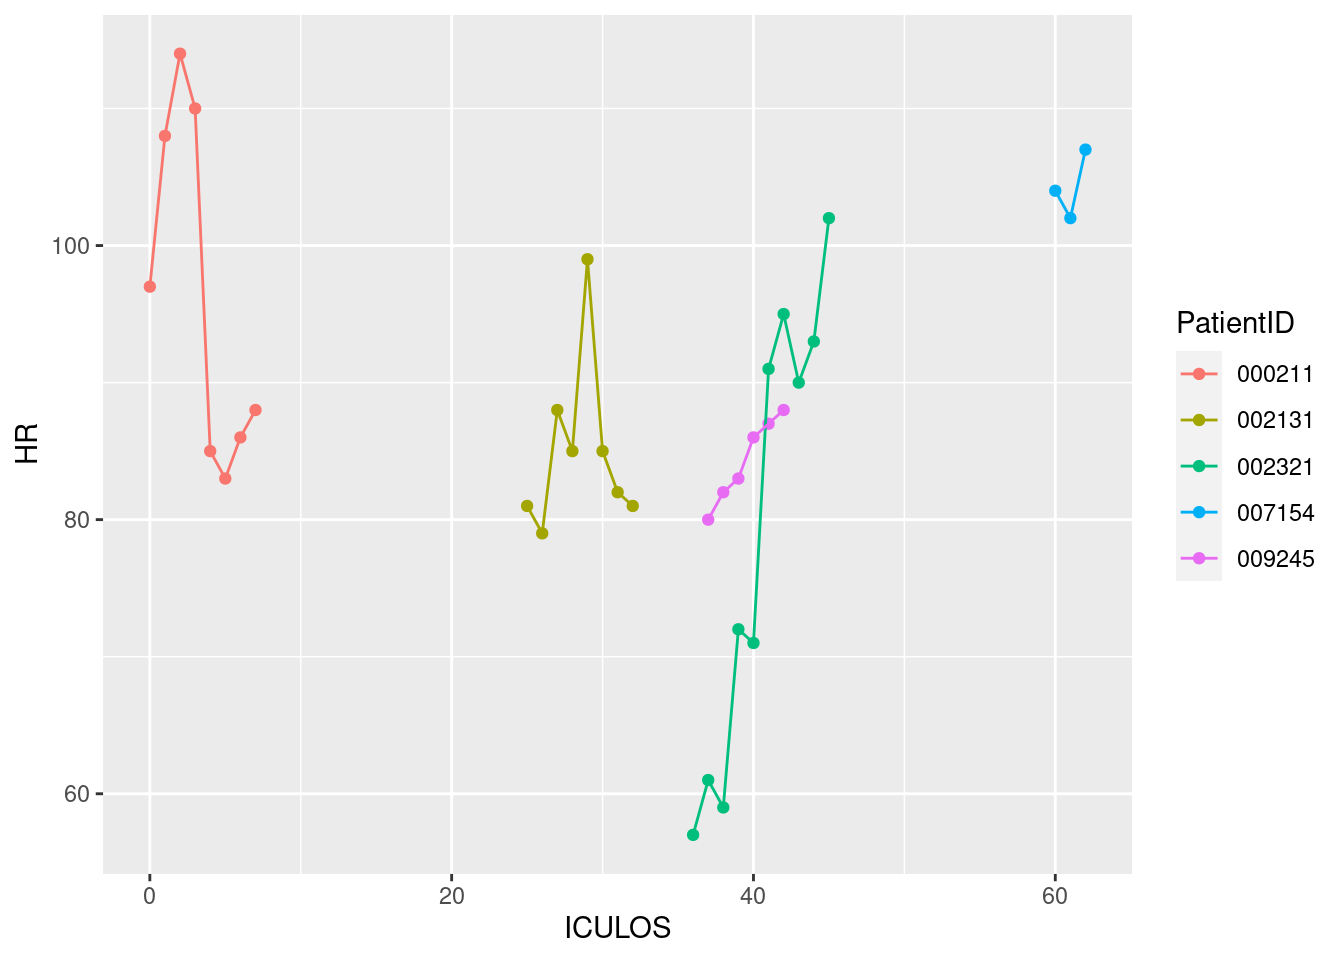
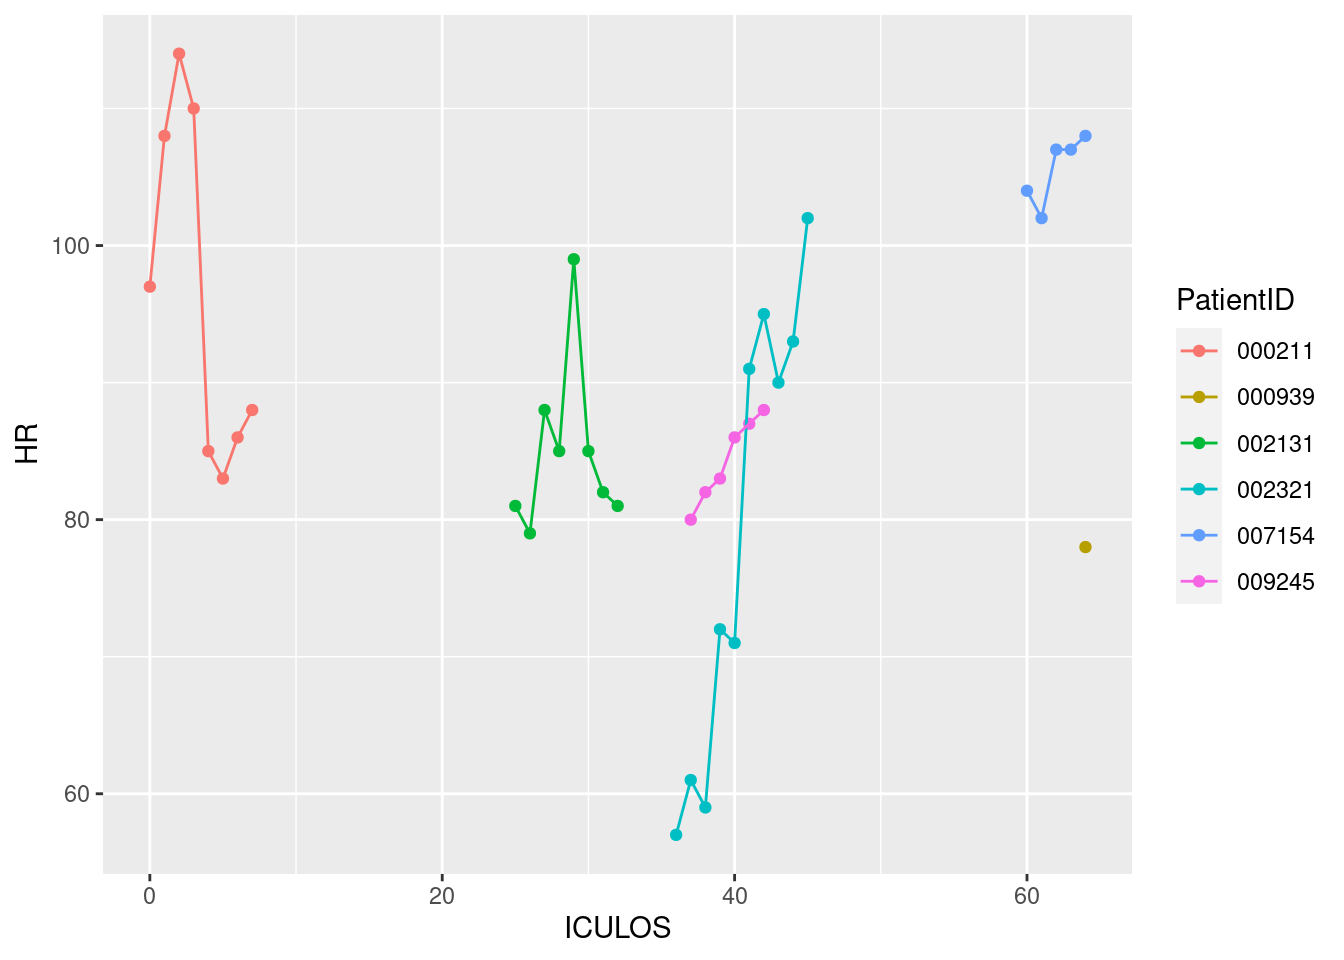
Updated report

diff --git a/a7qmd.html b/a7qmd.html
@@ -80,7 +80,7 @@ ul.task-list li input[type="checkbox"] {
 <h2 class="anchored" data-anchor-id="current-date-and-time">Current date and time</h2>
 <div class="cell">
 <div class="cell-output cell-output-stdout">
-<pre><code>[1] "2023-04-12 07:15:38 UTC"</code></pre>
+<pre><code>[1] "2023-04-12 08:20:44 UTC"</code></pre>
 </div>
 </div>
 </section>
@@ -105,24 +105,30 @@ ul.task-list li input[type="checkbox"] {
 <td style="text-align: right;">22</td>
 </tr>
 <tr class="even">
+<td style="text-align: left;">000939</td>
+<td style="text-align: right;">78</td>
+<td style="text-align: right;">NA</td>
+<td style="text-align: right;">15</td>
+</tr>
+<tr class="odd">
 <td style="text-align: left;">002131</td>
 <td style="text-align: right;">81</td>
 <td style="text-align: right;">NA</td>
 <td style="text-align: right;">15</td>
 </tr>
-<tr class="odd">
+<tr class="even">
 <td style="text-align: left;">002321</td>
 <td style="text-align: right;">102</td>
 <td style="text-align: right;">NA</td>
 <td style="text-align: right;">20</td>
 </tr>
-<tr class="even">
-<td style="text-align: left;">007154</td>
-<td style="text-align: right;">107</td>
-<td style="text-align: right;">NA</td>
-<td style="text-align: right;">21</td>
-</tr>
 <tr class="odd">
+<td style="text-align: left;">007154</td>
+<td style="text-align: right;">108</td>
+<td style="text-align: right;">NA</td>
+<td style="text-align: right;">30</td>
+</tr>
+<tr class="even">
 <td style="text-align: left;">009245</td>
 <td style="text-align: right;">88</td>
 <td style="text-align: right;">NA</td>
@@ -205,9 +211,9 @@ ul.task-list li input[type="checkbox"] {
 </tr>
 <tr class="even">
 <td style="text-align: left;">000939</td>
-<td style="text-align: right;">1</td>
+<td style="text-align: right;">-3</td>
 <td style="text-align: right;">NA</td>
-<td style="text-align: right;">-1</td>
+<td style="text-align: right;">-2</td>
 </tr>
 <tr class="odd">
 <td style="text-align: left;">001080</td>
@@ -373,9 +379,9 @@ ul.task-list li input[type="checkbox"] {
 </tr>
 <tr class="even">
 <td style="text-align: left;">007154</td>
-<td style="text-align: right;">5</td>
+<td style="text-align: right;">1</td>
 <td style="text-align: right;">NA</td>
-<td style="text-align: right;">0</td>
+<td style="text-align: right;">9</td>
 </tr>
 <tr class="odd">
 <td style="text-align: left;">007365</td>
@@ -415,9 +421,9 @@ ul.task-list li input[type="checkbox"] {
 </tr>
 <tr class="odd">
 <td style="text-align: left;">008907</td>
-<td style="text-align: right;">8</td>
+<td style="text-align: right;">2</td>
 <td style="text-align: right;">NA</td>
-<td style="text-align: right;">-1</td>
+<td style="text-align: right;">1</td>
 </tr>
 <tr class="even">
 <td style="text-align: left;">008916</td>
